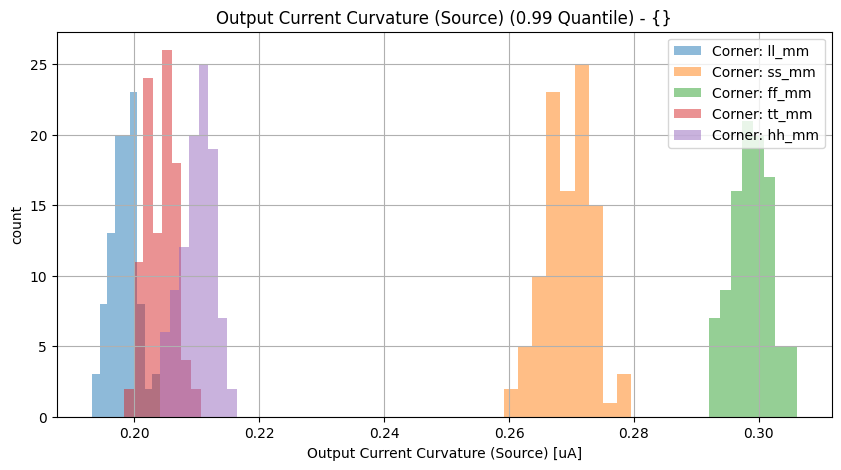
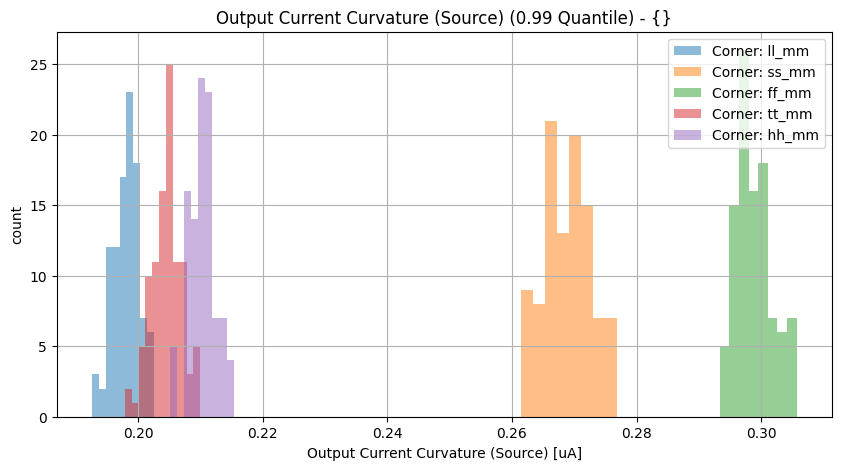
Jenkins update

diff --git a/vthref/vthref/Readme.md b/vthref/vthref/Readme.md
@@ -1,4 +1,4 @@
-24.11.2022, 23:47:46
+25.11.2022, 08:20:21
 
 # Vth Current Reference
 
@@ -30,8 +30,8 @@
 
 | Parameter | Min (Spec. / Sim.) |      | Max (Sim. / Spec.) | Unit | Checks (total/pass/fail/NaN) | Comment |
 | :-------- | -----------------: | :--: | :----------------- | :--- | :--------------------------- | ------- |
-| Output Current Curvature (Sink) | 0.0 / 0.191 | <svg height="20" width="150"><polyline points="3.0,3,3.0,17,147.0,17,147.0,3" style="fill:none;stroke:gray;stroke-width:1" /><polyline points="75.0,10.0,75.0,17" style="fill:none;stroke:gray;stroke-width:1" /><polyline points="30.4689936,10.0,47.1950688,10.0" style="stroke:green;stroke-width:2" /><circle cx="30.4689936" cy="10.0" r="3" style="fill:green;stroke:green;stroke-width:0" /><circle cx="47.1950688" cy="10.0" r="3" style="fill:green;stroke:green;stroke-width:0" /></svg> | 0.307 / 1.0 | uA | 500/100.0%/0.0%/0.0% |  |
-| Output Current Curvature (Source) | 0.0 / 0.193 | <svg height="20" width="150"><polyline points="3.0,3,3.0,17,147.0,17,147.0,3" style="fill:none;stroke:gray;stroke-width:1" /><polyline points="75.0,10.0,75.0,17" style="fill:none;stroke:gray;stroke-width:1" /><polyline points="30.82908,10.0,47.071343999999996,10.0" style="stroke:green;stroke-width:2" /><circle cx="30.82908" cy="10.0" r="3" style="fill:green;stroke:green;stroke-width:0" /><circle cx="47.071343999999996" cy="10.0" r="3" style="fill:green;stroke:green;stroke-width:0" /></svg> | 0.306 / 1.0 | uA | 500/100.0%/0.0%/0.0% |  |
+| Output Current Curvature (Sink) | 0.0 / 0.191 | <svg height="20" width="150"><polyline points="3.0,3,3.0,17,147.0,17,147.0,3" style="fill:none;stroke:gray;stroke-width:1" /><polyline points="75.0,10.0,75.0,17" style="fill:none;stroke:gray;stroke-width:1" /><polyline points="30.4678416,10.0,47.3195712,10.0" style="stroke:green;stroke-width:2" /><circle cx="30.4678416" cy="10.0" r="3" style="fill:green;stroke:green;stroke-width:0" /><circle cx="47.3195712" cy="10.0" r="3" style="fill:green;stroke:green;stroke-width:0" /></svg> | 0.308 / 1.0 | uA | 500/100.0%/0.0%/0.0% |  |
+| Output Current Curvature (Source) | 0.0 / 0.193 | <svg height="20" width="150"><polyline points="3.0,3,3.0,17,147.0,17,147.0,3" style="fill:none;stroke:gray;stroke-width:1" /><polyline points="75.0,10.0,75.0,17" style="fill:none;stroke:gray;stroke-width:1" /><polyline points="30.7386336,10.0,47.0194896,10.0" style="stroke:green;stroke-width:2" /><circle cx="30.7386336" cy="10.0" r="3" style="fill:green;stroke:green;stroke-width:0" /><circle cx="47.0194896" cy="10.0" r="3" style="fill:green;stroke:green;stroke-width:0" /></svg> | 0.306 / 1.0 | uA | 500/100.0%/0.0%/0.0% |  |
 
 <br>
 
@@ -50,20 +50,16 @@
 
 | Parameter | Min (Spec. / Sim.) |      | Max (Sim. / Spec.) | Unit | Checks (total/pass/fail/NaN) | Comment |
 | :-------- | -----------------: | :--: | :----------------- | :--- | :--------------------------- | ------- |
-| Output Current Curvature (Sink) | 0.0 / 0.193 | <svg height="20" width="150"><polyline points="3.0,3,3.0,17,36.046327508841614,17,36.046327508841614,3" style="fill:none;stroke:gray;stroke-width:1" /><polyline points="19.523163754420807,10.0,19.523163754420807,17" style="fill:none;stroke:gray;stroke-width:1" /><polyline points="9.374216888096186,10.0,147.0,10.0" style="stroke:red;stroke-width:2" /><circle cx="9.374216888096186" cy="10.0" r="3" style="fill:red;stroke:red;stroke-width:0" /><circle cx="147.0" cy="10.0" r="3" style="fill:red;stroke:red;stroke-width:0" /></svg> | 4.358 / 1.0 | uA | 500/99.4%/0.6%/0.0% |  |
-| Output Current Curvature (Source) | 0.0 / 0.197 | <svg height="20" width="150"><polyline points="3.0,3,3.0,17,36.57780618936903,17,36.57780618936903,3" style="fill:none;stroke:gray;stroke-width:1" /><polyline points="19.788903094684514,10.0,19.788903094684514,17" style="fill:none;stroke:gray;stroke-width:1" /><polyline points="9.622993941770954,10.0,146.99999999999997,10.0" style="stroke:red;stroke-width:2" /><circle cx="9.622993941770954" cy="10.0" r="3" style="fill:red;stroke:red;stroke-width:0" /><circle cx="146.99999999999997" cy="10.0" r="3" style="fill:red;stroke:red;stroke-width:0" /></svg> | 4.289 / 1.0 | uA | 500/99.4%/0.6%/0.0% |  |
+| Output Current Curvature (Sink) | 0.0 / 0.193 | <svg height="20" width="150"><polyline points="3.0,3,3.0,17,36.05669015757711,17,36.05669015757711,3" style="fill:none;stroke:gray;stroke-width:1" /><polyline points="19.528345078788554,10.0,19.528345078788554,17" style="fill:none;stroke:gray;stroke-width:1" /><polyline points="9.383726191435425,10.0,147.0,10.0" style="stroke:red;stroke-width:2" /><circle cx="9.383726191435425" cy="10.0" r="3" style="fill:red;stroke:red;stroke-width:0" /><circle cx="147.0" cy="10.0" r="3" style="fill:red;stroke:red;stroke-width:0" /></svg> | 4.356 / 1.0 | uA | 500/99.8%/0.2%/0.0% |  |
+| Output Current Curvature (Source) | 0.0 / 0.197 | <svg height="20" width="150"><polyline points="3.0,3,3.0,17,36.53618064822643,17,36.53618064822643,3" style="fill:none;stroke:gray;stroke-width:1" /><polyline points="19.768090324113214,10.0,19.768090324113214,17" style="fill:none;stroke:gray;stroke-width:1" /><polyline points="9.598837132936023,10.0,147.0,10.0" style="stroke:red;stroke-width:2" /><circle cx="9.598837132936023" cy="10.0" r="3" style="fill:red;stroke:red;stroke-width:0" /><circle cx="147.0" cy="10.0" r="3" style="fill:red;stroke:red;stroke-width:0" /></svg> | 4.294 / 1.0 | uA | 500/99.8%/0.2%/0.0% |  |
 
 <details><summary>Show specification violation details...</summary>
 
 > **FAIL:** Specification violation for parameter "Output Current Curvature (Sink)":<br>
-> **FAIL:** group:ll_mm file:work/sim/vthref/vthref_tb.4_dcext/batch_2/ll_mm/dc.csv Index:6 <br>
-> **FAIL:** group:ll_mm file:work/sim/vthref/vthref_tb.4_dcext/batch_2/ll_mm/dc.csv Index:9 <br>
-> **FAIL:** group:ll_mm file:work/sim/vthref/vthref_tb.4_dcext/batch_4/ll_mm/dc.csv Index:8 <br>
+> **FAIL:** group:ll_mm file:work/sim/vthref/vthref_tb.4_dcext/batch_4/ll_mm/dc.csv Index:14 <br>
 
 > **FAIL:** Specification violation for parameter "Output Current Curvature (Source)":<br>
-> **FAIL:** group:ll_mm file:work/sim/vthref/vthref_tb.4_dcext/batch_2/ll_mm/dc.csv Index:6 <br>
-> **FAIL:** group:ll_mm file:work/sim/vthref/vthref_tb.4_dcext/batch_2/ll_mm/dc.csv Index:9 <br>
-> **FAIL:** group:ll_mm file:work/sim/vthref/vthref_tb.4_dcext/batch_4/ll_mm/dc.csv Index:8 <br>
+> **FAIL:** group:ll_mm file:work/sim/vthref/vthref_tb.4_dcext/batch_4/ll_mm/dc.csv Index:14 <br>
 </details><br>
 
 

diff --git a/vthref/vthref/specReport.md b/vthref/vthref/specReport.md
@@ -13,8 +13,8 @@
 
 | Parameter | Min (Spec. / Sim.) |      | Max (Sim. / Spec.) | Unit | Checks (total/pass/fail/NaN) | Comment |
 | :-------- | -----------------: | :--: | :----------------- | :--- | :--------------------------- | ------- |
-| Output Current Curvature (Sink) | 0.0 / 0.191 | <svg height="20" width="150"><polyline points="3.0,3,3.0,17,147.0,17,147.0,3" style="fill:none;stroke:gray;stroke-width:1" /><polyline points="75.0,10.0,75.0,17" style="fill:none;stroke:gray;stroke-width:1" /><polyline points="30.4689936,10.0,47.1950688,10.0" style="stroke:green;stroke-width:2" /><circle cx="30.4689936" cy="10.0" r="3" style="fill:green;stroke:green;stroke-width:0" /><circle cx="47.1950688" cy="10.0" r="3" style="fill:green;stroke:green;stroke-width:0" /></svg> | 0.307 / 1.0 | uA | 500/100.0%/0.0%/0.0% |  |
-| Output Current Curvature (Source) | 0.0 / 0.193 | <svg height="20" width="150"><polyline points="3.0,3,3.0,17,147.0,17,147.0,3" style="fill:none;stroke:gray;stroke-width:1" /><polyline points="75.0,10.0,75.0,17" style="fill:none;stroke:gray;stroke-width:1" /><polyline points="30.82908,10.0,47.071343999999996,10.0" style="stroke:green;stroke-width:2" /><circle cx="30.82908" cy="10.0" r="3" style="fill:green;stroke:green;stroke-width:0" /><circle cx="47.071343999999996" cy="10.0" r="3" style="fill:green;stroke:green;stroke-width:0" /></svg> | 0.306 / 1.0 | uA | 500/100.0%/0.0%/0.0% |  |
+| Output Current Curvature (Sink) | 0.0 / 0.191 | <svg height="20" width="150"><polyline points="3.0,3,3.0,17,147.0,17,147.0,3" style="fill:none;stroke:gray;stroke-width:1" /><polyline points="75.0,10.0,75.0,17" style="fill:none;stroke:gray;stroke-width:1" /><polyline points="30.4678416,10.0,47.3195712,10.0" style="stroke:green;stroke-width:2" /><circle cx="30.4678416" cy="10.0" r="3" style="fill:green;stroke:green;stroke-width:0" /><circle cx="47.3195712" cy="10.0" r="3" style="fill:green;stroke:green;stroke-width:0" /></svg> | 0.308 / 1.0 | uA | 500/100.0%/0.0%/0.0% |  |
+| Output Current Curvature (Source) | 0.0 / 0.193 | <svg height="20" width="150"><polyline points="3.0,3,3.0,17,147.0,17,147.0,3" style="fill:none;stroke:gray;stroke-width:1" /><polyline points="75.0,10.0,75.0,17" style="fill:none;stroke:gray;stroke-width:1" /><polyline points="30.7386336,10.0,47.0194896,10.0" style="stroke:green;stroke-width:2" /><circle cx="30.7386336" cy="10.0" r="3" style="fill:green;stroke:green;stroke-width:0" /><circle cx="47.0194896" cy="10.0" r="3" style="fill:green;stroke:green;stroke-width:0" /></svg> | 0.306 / 1.0 | uA | 500/100.0%/0.0%/0.0% |  |
 
 <br>
 
@@ -33,19 +33,15 @@
 
 | Parameter | Min (Spec. / Sim.) |      | Max (Sim. / Spec.) | Unit | Checks (total/pass/fail/NaN) | Comment |
 | :-------- | -----------------: | :--: | :----------------- | :--- | :--------------------------- | ------- |
-| Output Current Curvature (Sink) | 0.0 / 0.193 | <svg height="20" width="150"><polyline points="3.0,3,3.0,17,36.046327508841614,17,36.046327508841614,3" style="fill:none;stroke:gray;stroke-width:1" /><polyline points="19.523163754420807,10.0,19.523163754420807,17" style="fill:none;stroke:gray;stroke-width:1" /><polyline points="9.374216888096186,10.0,147.0,10.0" style="stroke:red;stroke-width:2" /><circle cx="9.374216888096186" cy="10.0" r="3" style="fill:red;stroke:red;stroke-width:0" /><circle cx="147.0" cy="10.0" r="3" style="fill:red;stroke:red;stroke-width:0" /></svg> | 4.358 / 1.0 | uA | 500/99.4%/0.6%/0.0% |  |
-| Output Current Curvature (Source) | 0.0 / 0.197 | <svg height="20" width="150"><polyline points="3.0,3,3.0,17,36.57780618936903,17,36.57780618936903,3" style="fill:none;stroke:gray;stroke-width:1" /><polyline points="19.788903094684514,10.0,19.788903094684514,17" style="fill:none;stroke:gray;stroke-width:1" /><polyline points="9.622993941770954,10.0,146.99999999999997,10.0" style="stroke:red;stroke-width:2" /><circle cx="9.622993941770954" cy="10.0" r="3" style="fill:red;stroke:red;stroke-width:0" /><circle cx="146.99999999999997" cy="10.0" r="3" style="fill:red;stroke:red;stroke-width:0" /></svg> | 4.289 / 1.0 | uA | 500/99.4%/0.6%/0.0% |  |
+| Output Current Curvature (Sink) | 0.0 / 0.193 | <svg height="20" width="150"><polyline points="3.0,3,3.0,17,36.05669015757711,17,36.05669015757711,3" style="fill:none;stroke:gray;stroke-width:1" /><polyline points="19.528345078788554,10.0,19.528345078788554,17" style="fill:none;stroke:gray;stroke-width:1" /><polyline points="9.383726191435425,10.0,147.0,10.0" style="stroke:red;stroke-width:2" /><circle cx="9.383726191435425" cy="10.0" r="3" style="fill:red;stroke:red;stroke-width:0" /><circle cx="147.0" cy="10.0" r="3" style="fill:red;stroke:red;stroke-width:0" /></svg> | 4.356 / 1.0 | uA | 500/99.8%/0.2%/0.0% |  |
+| Output Current Curvature (Source) | 0.0 / 0.197 | <svg height="20" width="150"><polyline points="3.0,3,3.0,17,36.53618064822643,17,36.53618064822643,3" style="fill:none;stroke:gray;stroke-width:1" /><polyline points="19.768090324113214,10.0,19.768090324113214,17" style="fill:none;stroke:gray;stroke-width:1" /><polyline points="9.598837132936023,10.0,147.0,10.0" style="stroke:red;stroke-width:2" /><circle cx="9.598837132936023" cy="10.0" r="3" style="fill:red;stroke:red;stroke-width:0" /><circle cx="147.0" cy="10.0" r="3" style="fill:red;stroke:red;stroke-width:0" /></svg> | 4.294 / 1.0 | uA | 500/99.8%/0.2%/0.0% |  |
 
 <details><summary>Show specification violation details...</summary>
 
 > **FAIL:** Specification violation for parameter "Output Current Curvature (Sink)":<br>
-> **FAIL:** group:ll_mm file:work/sim/vthref/vthref_tb.4_dcext/batch_2/ll_mm/dc.csv Index:6 <br>
-> **FAIL:** group:ll_mm file:work/sim/vthref/vthref_tb.4_dcext/batch_2/ll_mm/dc.csv Index:9 <br>
-> **FAIL:** group:ll_mm file:work/sim/vthref/vthref_tb.4_dcext/batch_4/ll_mm/dc.csv Index:8 <br>
+> **FAIL:** group:ll_mm file:work/sim/vthref/vthref_tb.4_dcext/batch_4/ll_mm/dc.csv Index:14 <br>
 
 > **FAIL:** Specification violation for parameter "Output Current Curvature (Source)":<br>
-> **FAIL:** group:ll_mm file:work/sim/vthref/vthref_tb.4_dcext/batch_2/ll_mm/dc.csv Index:6 <br>
-> **FAIL:** group:ll_mm file:work/sim/vthref/vthref_tb.4_dcext/batch_2/ll_mm/dc.csv Index:9 <br>
-> **FAIL:** group:ll_mm file:work/sim/vthref/vthref_tb.4_dcext/batch_4/ll_mm/dc.csv Index:8 <br>
+> **FAIL:** group:ll_mm file:work/sim/vthref/vthref_tb.4_dcext/batch_4/ll_mm/dc.csv Index:14 <br>
 </details><br>
 

diff --git a/bmbg/bmbgota/Readme.md b/bmbg/bmbgota/Readme.md
@@ -1,4 +1,4 @@
-24.11.2022, 23:47:46
+25.11.2022, 08:20:21
 
 # Beta-Multiplier Bandgap OTA
 

diff --git a/bmbg/bmbg/Readme.md b/bmbg/bmbg/Readme.md
@@ -1,4 +1,4 @@
-24.11.2022, 23:47:46
+25.11.2022, 08:20:21
 
 # Beta-Multiplier Bandgap
 

diff --git a/riosc/riosc/Readme.md b/riosc/riosc/Readme.md
@@ -1,4 +1,4 @@
-24.11.2022, 23:47:46
+25.11.2022, 08:20:21
 
 # Ring Oscillator
 

diff --git a/ldo/ldo/Readme.md b/ldo/ldo/Readme.md
@@ -1,4 +1,4 @@
-24.11.2022, 23:47:46
+25.11.2022, 08:20:21
 
 # 1.8 V LDO
 

diff --git a/ldo/ldoota/Readme.md b/ldo/ldoota/Readme.md
@@ -1,4 +1,4 @@
-24.11.2022, 23:47:46
+25.11.2022, 08:20:21
 
 # LDO OP
 
